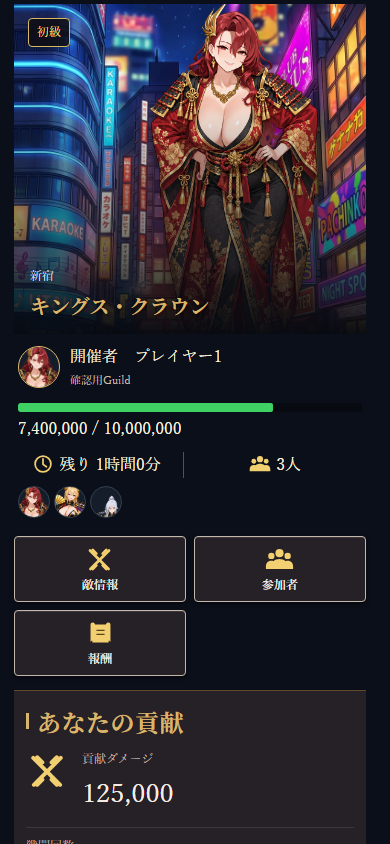
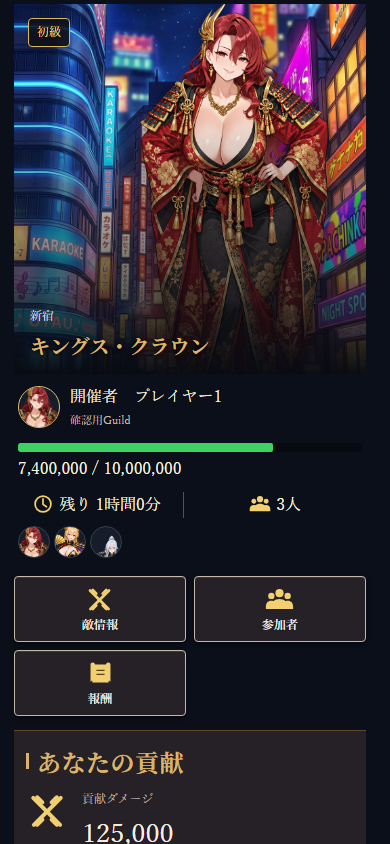
fix: align raid scrolling and approved layout

diff --git a/src/app/qa/raid-approved/ApprovedRaidPreview.tsx b/src/app/qa/raid-approved/ApprovedRaidPreview.tsx
@@ -3,6 +3,7 @@ import { useMemo, useState } from 'react';
 import type { RaidTopEntry, RaidTopEnemy } from '@/domain/raidTop';
 import { createTopFixture } from '@/app/qa/raid-top/topFixture';
 import './ApprovedRaidPreview.css';
+import './ApprovedRaidScrollbar.css';
 
 type IconName = 'clock' | 'people' | 'swords' | 'scroll' | 'handshake' | 'chest' | 'armor' | 'victory' | 'medal';
 const icon = (name: IconName, label = '') => <img className="raid-approved__icon" src={`/ui/raid/${name}.svg`} alt={label} />;
@@ -19,6 +20,6 @@ function Hp({ entry, detail = false }: { entry: RaidTopEntry; detail?: boolean }
 function Meta({ entry }: { entry: RaidTopEntry }) { const expiry = entry.room.expiresAt.status === 'available' ? new Date(entry.room.expiresAt.value).toLocaleString('ja-JP', { month: 'numeric', day: 'numeric', hour: '2-digit', minute: '2-digit' }) : '未確認'; const count = entry.room.participantCount.status === 'available' ? `${entry.room.participantCount.value}/20人` : '未確認'; return <div className="raid-approved__meta"><span>{icon('clock')}{expiry}</span><span>{icon('people')}{count}</span></div>; }
 function ActionTile({ iconName, label }: { iconName: IconName; label: string }) { return <button className="raid-approved__tile" type="button">{icon(iconName)}<span>{label}</span></button>; }
 function ListCard({ entry }: { entry: RaidTopEntry }) { const enemy = entry.enemy.status === 'available' ? entry.enemy.value : null; const origin = entry.origin?.status === 'available' ? entry.origin.value : null; return <article className="raid-approved__list-card"><div className="raid-approved__list-art">{enemy && <><img src={enemy.backgroundUrl} alt="" /><img src={enemy.leaderImageUrl} alt="" /></>}</div><div className="raid-approved__list-copy"><div className="raid-approved__badges"><span>{origin === 'territory' ? '領土侵攻' : 'エンカウント'}</span><span>参加中</span></div><h3>{enemy?.bossName ?? '敵情報未確認'} <small>Lv.1</small></h3>{enemy && <p className="raid-approved__attribute">{attrIcon(enemy.attribute)}{attrLabel[enemy.attribute]}属性</p>}<Owner entry={entry} /><Hp entry={entry} /></div><div className="raid-approved__card-bottom"><Meta entry={entry} /><button type="button">続きへ ›</button></div></article>; }
-function Listing() { const [tab, setTab] = useState('すべて'); const shown = useMemo(() => [...entries].filter(entry => { const origin = entry.origin?.status === 'available' ? entry.origin.value : null; return tab === 'すべて' || (tab === 'エンカウント' && origin === 'encounter') || (tab === '領土侵攻' && origin === 'territory'); }).sort((a, b) => Date.parse(a.room.expiresAt.status === 'available' ? a.room.expiresAt.value : '') - Date.parse(b.room.expiresAt.status === 'available' ? b.room.expiresAt.value : '')), [tab]); return <section className="raid-approved__screen"><div className="raid-approved__screen-head"><h1>レイド</h1><button type="button">更新</button></div><div className="raid-approved__tabs">{['すべて', 'エンカウント', '領土侵攻'].map(value => <button key={value} className={tab === value ? 'is-active' : ''} onClick={() => setTab(value)} type="button">{value}</button>)}</div><p className="raid-approved__sort">残り時間が短い順</p><div className="raid-approved__list">{shown.map(entry => <ListCard key={entry.room.roomId} entry={entry} />)}</div><button className="raid-approved__ended" type="button">{icon('chest')}終了したレイド・未受取報酬 <b>›</b></button></section>; }
+function Listing() { const [tab, setTab] = useState('すべて'); const shown = useMemo(() => [...entries].filter(entry => { const origin = entry.origin?.status === 'available' ? entry.origin.value : null; return tab === 'すべて' || (tab === 'エンカウント' && origin === 'encounter') || (tab === '領土侵攻' && origin === 'territory'); }).sort((a, b) => Date.parse(a.room.expiresAt.status === 'available' ? a.room.expiresAt.value : '') - Date.parse(b.room.expiresAt.status === 'available' ? b.room.expiresAt.value : '')), [tab]); return <section className="raid-approved__screen"><div className="raid-approved__screen-head"><h1>レイド</h1><button type="button">更新</button></div><div className="raid-approved__tabs">{['すべて', 'エンカウント', '領土侵攻'].map(value => <button key={value} className={tab === value ? 'is-active' : ''} onClick={() => setTab(value)} type="button">{value}</button>)}</div><div className="raid-approved__list">{shown.map(entry => <ListCard key={entry.room.roomId} entry={entry} />)}</div><button className="raid-approved__ended" type="button">{icon('chest')}終了したレイド・未受取報酬 <b>›</b></button></section>; }
 function Detail({ lower = false }: { lower?: boolean }) { const entry = entries[1] ?? entries[0]; const enemy = entry.enemy.status === 'available' ? entry.enemy.value : null; return <section className="raid-approved__screen raid-approved__detail-screen"><button className="raid-approved__back" type="button">‹ レイド一覧</button>{enemy && <Hero enemy={enemy} compact={lower} />}<Owner entry={entry} /><Hp entry={entry} detail /><Meta entry={entry} />{!lower && <div className="raid-approved__tiles"><ActionTile iconName="swords" label="敵情報" /><ActionTile iconName="people" label="参加者" /><ActionTile iconName="scroll" label="報酬" /><ActionTile iconName="handshake" label="救援" /></div>}<div className="raid-approved__contribution"><h2>自分の貢献</h2><div className="raid-approved__damage">{icon('swords')}<span>累計ダメージ<strong>0</strong></span><button type="button">未挑戦</button></div><div className="raid-approved__stats"><span>{icon('armor')}挑戦　0戦</span><span>{icon('victory')}勝利　0勝</span></div><div className="raid-approved__eligibility"><span>討伐報酬資格まで<br /><b>あと3勝</b></span><div>{[1, 2, 3].map(i => <span key={i}>{icon('medal')}</span>)}</div></div><p>参加時の共通進行　Lv.1</p></div><button className="raid-approved__challenge" type="button">{icon('swords')}<strong>挑む</strong><span>{icon('clock')}消費行動力 5</span></button></section>; }
 export default function ApprovedRaidPreview() { const screens = ['listing', 'detail', 'lower'] as const; return <main className="raid-approved"><div className="raid-approved__board"><div className="raid-approved__panels">{screens.map((kind, index) => <div className="raid-approved__panel" key={kind}><h2 className="raid-approved__panel-title">{index === 0 ? '01　レイド一覧' : kind === 'detail' ? '02　レイド詳細' : '03　詳細・下部'}</h2><ResourceHeader entry={entries[0]} />{kind === 'listing' ? <Listing /> : <Detail lower={kind === 'lower'} />}<Footer /></div>)}</div></div></main>; }

diff --git a/src/app/components/raid/RaidRoomDetail.css b/src/app/components/raid/RaidRoomDetail.css
@@ -56,4 +56,4 @@
 .raid-detail__role > span { display: block; margin-bottom: 2px; font-size: 9px; color: var(--ui-text-secondary); }
 
 /* Approved raid mock: live detail composition. */
-.raid-detail{padding:0 0 24px;color:#f8f0df}.raid-detail__hero{height:330px;border-radius:0;border:0}.raid-detail__enemy{width:92%;height:126%;right:-8%;top:-2%}.raid-detail__hero-caption{left:16px;bottom:14px}.raid-detail__hero-caption h2{color:#efd584;font:700 28px Georgia,serif}.raid-detail__difficulty{top:14px;left:14px;border-color:#d6b95f;color:#f4d977;background:rgba(15,14,20,.86)}.raid-detail__owner{display:flex;align-items:center;gap:10px;padding:10px 4px 7px;border-bottom:0}.raid-detail__owner .raid-detail__portrait{width:42px;height:42px;flex-basis:42px;border-color:#dfbb6b}.raid-detail__identity strong{font:16px Georgia,serif}.raid-detail__identity>span{font-size:11px}.raid-detail__battle{padding:6px 4px 10px}.raid-detail__hp-heading{display:none}.raid-detail__hp{height:9px;margin:0 0 4px;background:#15161b}.raid-detail__hp::-webkit-progress-value{background:#40d164}.raid-detail__hp-value{text-align:left;color:#f8f0df;font:16px Georgia,serif}.raid-detail__battle-facts{grid-template-columns:1fr 1fr;border:0;margin-top:10px}.raid-detail__battle-facts>div{display:flex;align-items:center;justify-content:center;gap:8px;border-right:1px solid #604f39}.raid-detail__battle-facts>div:last-child{border-right:0}.raid-detail__battle-facts strong{font:16px Georgia,serif}.raid-detail__battle-facts span{font-size:0}.raid-detail__entrances{grid-template-columns:repeat(2,minmax(0,1fr));gap:8px;margin-top:8px}.raid-detail__entrances .outlaw-button{min-height:62px;border-color:#d6c7af;background:#17171d}.raid-detail__entrances img{width:29px;height:29px}.raid-detail__contribution{margin-top:14px;border:0;border-top:1px solid #60472c;border-radius:0;background:linear-gradient(135deg,#1a1b21,#12131a)}.raid-detail__contribution>.outlaw-card-inner{padding:14px 12px}.raid-detail .outlaw-section-header{margin-bottom:12px}.raid-detail .section-header-title{font:700 23px Georgia,serif;color:#e9ca6c}.raid-detail__contribution-values{grid-template-columns:1fr}.raid-detail__contribution-values>div:first-child{padding-left:56px;position:relative}.raid-detail__contribution-values span{font-size:12px}.raid-detail__contribution-values strong{font:26px Georgia,serif}.raid-detail__contribution-values>div:last-child{display:flex;justify-content:space-between;border-top:1px solid #393840;padding-top:9px}.raid-detail__action{margin-top:12px}.raid-detail__action .outlaw-button{min-height:58px;border-color:#ed9a6a;background:linear-gradient(#a52d40,#7e2031);font-size:21px}.raid-detail__faces{margin-top:8px}
+.raid-detail{padding:0 0 24px;color:#f8f0df}.raid-detail__hero{height:370px;border-radius:0;border:0}.raid-detail__enemy{width:92%;height:126%;right:-8%;top:-2%}.raid-detail__hero-caption{left:16px;bottom:14px}.raid-detail__hero-caption h2{color:#efd584;font:700 28px Georgia,serif}.raid-detail__difficulty{top:14px;left:14px;border-color:#d6b95f;color:#f4d977;background:rgba(15,14,20,.86)}.raid-detail__owner{display:flex;align-items:center;gap:10px;padding:10px 4px 7px;border-bottom:0}.raid-detail__owner .raid-detail__portrait{width:42px;height:42px;flex-basis:42px;border-color:#dfbb6b}.raid-detail__identity strong{font:16px Georgia,serif}.raid-detail__identity>span{font-size:11px}.raid-detail__battle{padding:6px 4px 10px}.raid-detail__hp-heading{display:none}.raid-detail__hp{height:9px;margin:0 0 4px;background:#15161b}.raid-detail__hp::-webkit-progress-value{background:#40d164}.raid-detail__hp-value{text-align:left;color:#f8f0df;font:16px Georgia,serif}.raid-detail__battle-facts{grid-template-columns:1fr 1fr;border:0;margin-top:10px}.raid-detail__battle-facts>div{display:flex;align-items:center;justify-content:center;gap:8px;border-right:1px solid #604f39}.raid-detail__battle-facts>div:last-child{border-right:0}.raid-detail__battle-facts strong{font:16px Georgia,serif}.raid-detail__battle-facts span{font-size:0}.raid-detail__entrances{grid-template-columns:repeat(2,minmax(0,1fr));gap:8px;margin-top:8px}.raid-detail__entrances .outlaw-button{min-height:62px;border-color:#d6c7af;background:#17171d}.raid-detail__entrances img{width:29px;height:29px}.raid-detail__contribution{margin-top:14px;border:0;border-top:1px solid #60472c;border-radius:0;background:linear-gradient(135deg,#1a1b21,#12131a)}.raid-detail__contribution>.outlaw-card-inner{padding:14px 12px}.raid-detail .outlaw-section-header{margin-bottom:12px}.raid-detail .section-header-title{font:700 23px Georgia,serif;color:#e9ca6c}.raid-detail__contribution-values{grid-template-columns:1fr}.raid-detail__contribution-values>div:first-child{padding-left:56px;position:relative}.raid-detail__contribution-values span{font-size:12px}.raid-detail__contribution-values strong{font:26px Georgia,serif}.raid-detail__contribution-values>div:last-child{display:flex;justify-content:space-between;border-top:1px solid #393840;padding-top:9px}.raid-detail__action{margin-top:12px}.raid-detail__action .outlaw-button{min-height:58px;border-color:#ed9a6a;background:linear-gradient(#a52d40,#7e2031);font-size:21px}.raid-detail__faces{margin-top:8px}

diff --git a/src/app/components/redesign/RaidView.tsx b/src/app/components/redesign/RaidView.tsx
@@ -23,7 +23,7 @@ export default function RaidView({state,rooms,party,onAction,onOpenDeck,initialR
  const available=room&&active(room)&&!me?.leftAt;
  return <section className="rd-raid rd-stack">
  {error&&<p role="alert" className="rd-raid-error">{error}</p>}
- {!room||!master||!enemy?<><div className="rd-row"><h1>レイド</h1><button className="rd-button" disabled={busy} onClick={()=>void run('raid_refresh')}>更新</button></div><nav className="rd-tabs" aria-label="レイド種別">{[['all','すべて'],['encounter','エンカウント'],['unlock','領土侵攻']].map(([id,label])=><button key={id} className="rd-button" aria-pressed={filter===id} onClick={()=>setFilter(id)}>{label}</button>)}</nav><p className="rd-muted">開催中 · 残り時間が短い順</p>{live.length?live.map(r=><Card key={r.id} value={r}/>):<div className="rd-panel">開催中のレイドはありません。クエストをクリアすると、強敵に遭遇することがあります。</div>}{rooms.some(r=>!active(r)&&r.participants.some(p=>p.userId===state.userId))&&<details className="rd-panel"><summary>終了したレイドの結果・未受取報酬</summary>{rooms.filter(r=>!active(r)&&r.participants.some(p=>p.userId===state.userId)).map(r=><button className="rd-button" key={r.id} onClick={()=>select(r)}>{getRoomRaidMaster(r).name} · {r.status==='defeated'?'討伐成功':'終了'}{r.rewardGrants.some(g=>g.userId===state.userId&&!g.claimed)?' · 未受取あり':''}</button>)}</details>}</>:<>
+ {!room||!master||!enemy?<><div className="rd-row"><h1>レイド</h1><button className="rd-button" disabled={busy} onClick={()=>void run('raid_refresh')}>更新</button></div><nav className="rd-tabs" aria-label="レイド種別">{[['all','すべて'],['encounter','エンカウント'],['unlock','領土侵攻']].map(([id,label])=><button key={id} className="rd-button" aria-pressed={filter===id} onClick={()=>setFilter(id)}>{label}</button>)}</nav>{live.length?live.map(r=><Card key={r.id} value={r}/>):<div className="rd-panel">開催中のレイドはありません。クエストをクリアすると、強敵に遭遇することがあります。</div>}{rooms.some(r=>!active(r)&&r.participants.some(p=>p.userId===state.userId))&&<details className="rd-panel"><summary>終了したレイドの結果・未受取報酬</summary>{rooms.filter(r=>!active(r)&&r.participants.some(p=>p.userId===state.userId)).map(r=><button className="rd-button" key={r.id} onClick={()=>select(r)}>{getRoomRaidMaster(r).name} · {r.status==='defeated'?'討伐成功':'終了'}{r.rewardGrants.some(g=>g.userId===state.userId&&!g.claimed)?' · 未受取あり':''}</button>)}</details>}</>:<>
  <button className="rd-button" onClick={()=>setSelected(null)}>‹ レイド一覧</button><section className="rd-panel rd-raid-detail"><img className="rd-raid-boss" src={enemy.image} alt={master.name}/><div className="rd-raid-labels"><span>{master.type==='encounter'?'エンカウント':'領土侵攻'}</span><span>{raidElementLabels[enemy.element]}属性</span><span>{master.type==='encounter'?'強敵':'高難度'}</span></div><h1>{master.name} Lv.{room.level}</h1><meter min={0} max={room.maxHp} value={room.hp}/><p>共通HP {room.hp.toLocaleString()} / {room.maxHp.toLocaleString()}（{Math.ceil(room.hp/room.maxHp*100)}%）</p><p>{active(room)?raidTimeRemaining(room.expiresAt,now):room.status==='defeated'?'討伐成功':'開催終了'} · {room.participants.filter(p=>!p.leftAt).length}/{master.maxParticipants}人</p></section>
  <div className="rd-raid-tools">{[['enemy','敵情報'],['participants','参加者'],['rewards','報酬'],['rescue','救援']].map(([id,label])=><button className="rd-button" key={id} onClick={()=>setModal(id)}>{label}</button>)}</div>
  {me&&<section className="rd-panel"><h2>自分の貢献</h2><p>累計与ダメージ {me.totalDamage.toLocaleString()}</p><p>{me.attempts}戦 · {me.wins}勝 · 直近 {me.lastResult??'未挑戦'}</p><p>{me.wins>=3?'討伐報酬資格 取得済み':`討伐報酬資格まで あと${3-me.wins}勝`}</p>{master.type==='unlock'&&<p>参加時の共通進行 Lv.{me.joinedLevel}</p>}{me.leftAt&&<p>退出済み</p>}</section>}

diff --git a/src/app/components/raid/RaidTopApproved.tsx b/src/app/components/raid/RaidTopApproved.tsx
@@ -56,5 +56,5 @@ export default function RaidTopApproved({ participating, rescues, now, resolve, 
   const visibleHelp = tab === 'all' ? help.slice(0, 1) : [];
   const empty = visibleJoined.length === 0 && visibleHelp.length === 0;
   const tabs = useMemo(() => [['all', 'すべて'], ['encounter', 'エンカウント'], ['territory', '領土侵攻']] as const, []);
-  return <div className="raid-approved-ui" data-testid="raid-top-approved"><div className="raid-approved-ui__heading"><h1>レイド</h1><button type="button" onClick={onRefresh}>更新</button></div><div className="raid-approved-ui__tabs">{tabs.map(([value, label]) => <button key={value} type="button" className={tab === value ? 'is-active' : ''} onClick={() => setTab(value)}>{label}</button>)}</div><p className="raid-approved-ui__sort">残り時間が短い順</p>{empty ? <div className="raid-approved-ui__empty">現在開催中のレイドはありません</div> : <div className="raid-approved-ui__cards">{visibleJoined.map(entry => <Card key={entry.room.roomId} entry={entry} now={now} resolve={resolve} onOpenRoom={onOpenRoom} disabled={disabled}/>) }{visibleHelp.map(entry => <Card key={`${entry.room.roomId}-rescue`} entry={entry} now={now} resolve={resolve} onOpenRoom={onOpenRoom} disabled={disabled} rescue/>)}</div>}<button className="raid-approved-ui__ended" type="button" onClick={onOpenRewards}>{icon('chest')}<span>終了したレイド・未受取報酬</span><b>›</b></button></div>;
+  return <div className="raid-approved-ui" data-testid="raid-top-approved"><div className="raid-approved-ui__heading"><h1>レイド</h1><button type="button" onClick={onRefresh}>更新</button></div><div className="raid-approved-ui__tabs">{tabs.map(([value, label]) => <button key={value} type="button" className={tab === value ? 'is-active' : ''} onClick={() => setTab(value)}>{label}</button>)}</div>{empty ? <div className="raid-approved-ui__empty">現在開催中のレイドはありません</div> : <div className="raid-approved-ui__cards">{visibleJoined.map(entry => <Card key={entry.room.roomId} entry={entry} now={now} resolve={resolve} onOpenRoom={onOpenRoom} disabled={disabled}/>) }{visibleHelp.map(entry => <Card key={`${entry.room.roomId}-rescue`} entry={entry} now={now} resolve={resolve} onOpenRoom={onOpenRoom} disabled={disabled} rescue/>)}</div>}<button className="raid-approved-ui__ended" type="button" onClick={onOpenRewards}>{icon('chest')}<span>終了したレイド・未受取報酬</span><b>›</b></button></div>;
 }

diff --git a/src/app/qa/raid-detail/RaidDetailHarness.css b/src/app/qa/raid-detail/RaidDetailHarness.css
@@ -2,5 +2,12 @@
 .raid-detail-qa-tools { display: none; }
 .raid-detail-qa-tools label { display: flex; align-items: center; gap: 8px; }
 .raid-detail-qa-tools select { background: #22252c; color: #eee; min-height: 32px; max-width: 160px; }
-.raid-detail-qa-content { flex: 1; min-height: 0; overflow: hidden; }
+.raid-detail-qa-content { flex: 1; min-height: 0; overflow-y: auto; overflow-x: hidden; scrollbar-width: thin; scrollbar-color: #d6b95f #211f26; }
+.raid-detail-qa-content::-webkit-scrollbar { width: 7px; }
+.raid-detail-qa-content::-webkit-scrollbar-track { background: #211f26; }
+.raid-detail-qa-content::-webkit-scrollbar-thumb { background: #d6b95f; border: 1px solid #7f672f; border-radius: 3px; }
+.raid-detail-qa-content .ui-hub-page-scroll { scrollbar-width: thin; scrollbar-color: #d6b95f #211f26; }
+.raid-detail-qa-content .ui-hub-page-scroll::-webkit-scrollbar { width: 7px; }
+.raid-detail-qa-content .ui-hub-page-scroll::-webkit-scrollbar-track { background: #211f26; }
+.raid-detail-qa-content .ui-hub-page-scroll::-webkit-scrollbar-thumb { background: #d6b95f; border: 1px solid #7f672f; border-radius: 3px; }
 .raid-detail-qa-footer { display: none; }

diff --git a/src/app/qa/raid-approved/ApprovedRaidScrollbar.css b/src/app/qa/raid-approved/ApprovedRaidScrollbar.css
@@ -1,0 +1,15 @@
+.raid-approved__panel {
+  height: calc(100dvh - 28px);
+  min-height: 0;
+  overflow-y: auto;
+  overflow-x: hidden;
+  scrollbar-width: thin;
+  scrollbar-color: #d6b95f #211f26;
+}
+.raid-approved__panel::-webkit-scrollbar { width: 7px; }
+.raid-approved__panel::-webkit-scrollbar-track { background: #211f26; }
+.raid-approved__panel::-webkit-scrollbar-thumb { background: #d6b95f; border: 1px solid #7f672f; border-radius: 3px; }
+.raid-approved__screen { padding-bottom: 90px; }
+.raid-approved__footer { position: sticky; left: auto; right: auto; bottom: 0; z-index: 5; flex-shrink: 0; margin-top: auto; }
+.raid-approved__list-card { height: 240px; min-height: 240px; }
+.raid-approved__hero.is-compact { height: 160px; }

diff --git a/docs/design/raid/2026-09-23/IMPLEMENTATION_VERIFICATION.md b/docs/design/raid/2026-09-23/IMPLEMENTATION_VERIFICATION.md
@@ -26,6 +26,9 @@
 - QA専用ツールバー、Mockシナリオ説明、戦闘帰還Mock、比較用の実装注記は本体表示から除去した。
 - 詳細アクションは2列×2行に修正し、時計・人数・挑戦・行動力のUnicode代用を専用SVGへ統一した。
 - 本体の表示は `RaidTopEntry.room.owner` と `room.hp`、`participantCount`、`expiresAt`、敵属性を直接参照する。承認モック固有の固定名・固定HP・固定キャラ画像は残していない。
+- ソート処理は維持し、説明文「残り時間が短い順」は本体・Preview・Redesign一覧から削除した。
+- QA詳細は実際の `.ui-hub-page-scroll` を縦スクロールし、詳細下部のCTAまで到達できることを確認した。スクロールバーは7px、金色トラック／つまみで承認デザインに合わせた。
+- 承認Previewのパネルも固定高さ＋縦スクロールへ変更し、不透明stickyフッターがカード内容を視覚的に覆わない配置へ修正した。
 - 本体の正式表示背景に旧エリア背景マッピングが残っている。GAME03素材への差替えは行っていないが、正式GAME04レイド背景の供給・マッピング確定が必要。
 
 ## 素材
@@ -51,7 +54,7 @@
 | 正式データ | 最新raid production本体に属性列とorigin列がない。属性は旧正式凍結boss masterを参照して表示し、origin未提供時は分類を推測しない | 属性表示は実装済み。最新本体への属性/origin統合は未接続 |
 | 素材・背景 | `getCanonicalBattleBackground` が `bg_street_*.jpg` を参照。正式GAME04レイド背景の確定マッピングが未供給 | 未完了。素材制作・正本マッピング待ち |
 | 素材供給 | `public/ui/raid/` のSVG9種は比較用の未承認制作物。正式共通アイコン供給後に差替え | 未完了。正式採用済みとして扱わない |
-| QA検証 | Mock RPCに `get_quest_raid_bonus_v1` の未処理呼出しが残る。PGRST202相当では画面表示を阻害しないが、console clean受入にはQA stubまたは正式RPCが必要 | 未完了。供給／接続待ち |
+| QA検証 | Mock RPCに `get_quest_raid_bonus_v1` の未処理呼出しが残る。PGRST202相当では画面表示を阻害しないが、console clean受入にはQA stubまたは正式RPCが必要 | 未完了。機能接続残件 |
 
 ## 検証コマンド
 

diff --git a/docs/design/raid/2026-09-23/comparison/comparison-inventory.md b/docs/design/raid/2026-09-23/comparison/comparison-inventory.md
@@ -11,3 +11,17 @@
 | 本体詳細下部 | `raid-body-detail-lower-390.png` | 貢献、報酬資格、行動力CTA、下部余白 |
 
 画像はこのコミットにバイナリとして保存し、実装・検証記録と同一SHAで参照できる状態にする。属性画像は `public/ui/rarity/attribute-badge-*.png` の正式既存素材を使用し、レイド専用9 SVGは未承認制作物として扱う。
+
+## 今回の相違点対応
+
+| 相違点 | 対応結果 | 確認方法 |
+|---|---|---|
+| 説明文「残り時間が短い順」 | 本体Approved一覧、承認Preview、Redesign一覧から表示を削除。期限順ソートは維持 | ソース検索で対象文言なし、一覧画像で余白を再確認 |
+| 詳細スクロール | QA詳細の実スクロール領域を `.ui-hub-page-scroll` に統一し、幅7px・金色トラック／つまみを適用 | `scrollHeight=1045`、`clientHeight=844`、`scrollTop=201`、最下部到達を確認 |
+| 承認Previewスクロール | 3面パネルを固定ビューポート内の縦スクロール領域に変更。フッターは不透明stickyナビとしてカード内容を隠さない | 390px／desktop比較画像を更新 |
+| 詳細構図 | Heroを330pxから370pxへ変更し、画像表示領域・HP・アクション・下部CTAの縦比率を再調整 | 本体詳細／詳細下部画像を更新 |
+
+## 未修正点
+
+- ボス・背景など正式素材の差分は素材供給・正本マッピング待ち。簡易図形や別用途素材には置換していない。
+- レイド専用SVG9種は未承認素材のまま。正式採用扱いにはしていない。
